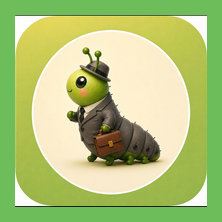
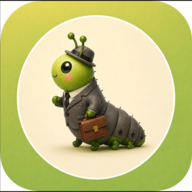
cv-sender: strategy default ahora + timezone por pais + formatLocalDate
- /api/cv-sender/send: default strategy cambia de 'optimo' a 'ahora' (60s)
  Los envios ya no esperan al siguiente dia habil (lunes).
- OfertaDetalleClient: anade strategy:'ahora' explicito
- lib/timezone.ts: nuevo modulo con PAIS_TIMEZONE (21 paises) + formatLocalDate
- /app/envios: usa formatLocalDate con timeZone Europe/Madrid en vez de UTC
- /api/salarios: fix title ILIKE solo (usa indice GIN trigram, sin description)
- iconos PWA maskable regenerados

diff --git a/lib/timezone.ts b/lib/timezone.ts
@@ -1,0 +1,66 @@
+/**
+ * lib/timezone.ts — Zonas horarias por país para BuscayCurra
+ *
+ * Cada país de la plataforma mapeado a su zona horaria IANA.
+ * Fallback: "Europe/Madrid" (UTC+1/+2)
+ */
+
+export const PAIS_TIMEZONE: Record<string, string> = {
+  ES: "Europe/Madrid",
+  DE: "Europe/Berlin",
+  FR: "Europe/Paris",
+  IT: "Europe/Rome",
+  PT: "Europe/Lisbon",
+  GB: "Europe/London",
+  IE: "Europe/Dublin",
+  NL: "Europe/Amsterdam",
+  BE: "Europe/Brussels",
+  AT: "Europe/Vienna",
+  CH: "Europe/Zurich",
+  SE: "Europe/Stockholm",
+  DK: "Europe/Copenhagen",
+  NO: "Europe/Oslo",
+  FI: "Europe/Helsinki",
+  PL: "Europe/Warsaw",
+  CZ: "Europe/Prague",
+  AU: "Australia/Sydney",
+  NZ: "Pacific/Auckland",
+  US: "America/New_York",
+  CA: "America/Toronto",
+};
+
+/**
+ * Formatea una fecha ISO en la zona horaria del país del usuario.
+ * @param isoString - Fecha en formato ISO 8601
+ * @param pais - Código de país ISO (ES, DE, FR...). Default: "ES"
+ * @param options - Opciones adicionales de Intl.DateTimeFormat
+ */
+export function formatLocalDate(
+  isoString: string | undefined | null,
+  pais: string = "ES",
+  options: Intl.DateTimeFormatOptions = {}
+): string {
+  if (!isoString) return "";
+  const tz = PAIS_TIMEZONE[pais] || "Europe/Madrid";
+  const locale = mapPaisToLocale(pais);
+  return new Date(isoString).toLocaleString(locale, {
+    day: "2-digit",
+    month: "short",
+    hour: "2-digit",
+    minute: "2-digit",
+    timeZone: tz,
+    ...options,
+  });
+}
+
+/** Mapea código de país a locale BCP 47 */
+function mapPaisToLocale(pais: string): string {
+  const map: Record<string, string> = {
+    ES: "es-ES", DE: "de-DE", FR: "fr-FR", IT: "it-IT", PT: "pt-PT",
+    GB: "en-GB", IE: "en-IE", NL: "nl-NL", BE: "nl-BE", AT: "de-AT",
+    CH: "de-CH", SE: "sv-SE", DK: "da-DK", NO: "nb-NO", FI: "fi-FI",
+    PL: "pl-PL", CZ: "cs-CZ", AU: "en-AU", NZ: "en-NZ",
+    US: "en-US", CA: "en-CA",
+  };
+  return map[pais] || "es-ES";
+}

diff --git a/app/api/salarios/route.ts b/app/api/salarios/route.ts
@@ -87,7 +87,10 @@ export async function GET(request: NextRequest) {
     const puestoClean = puesto.toLowerCase().trim();
     const kw = `%${puestoClean}%`;
 
-    // Estadísticas generales
+    // Evitar que queries lentas cuelguen la API
+    await pool.query(`SET LOCAL statement_timeout = '8s'`);
+
+    // Estadísticas generales — solo title (tiene índice GIN trigram, description no)
     const statsResult = await pool.query(
       `SELECT 
         COUNT(*) as total,
@@ -96,7 +99,7 @@ export async function GET(request: NextRequest) {
         MAX(CASE WHEN salary ~ '[0-9]+' THEN NULLIF(regexp_replace((regexp_match(salary, '([0-9][0-9.,]*[0-9])'))[1], '[,.]', '', 'g'), '')::numeric ELSE NULL END) as max_salary,
         COUNT(CASE WHEN salary ~ '[0-9]' THEN 1 END) as con_salario
        FROM "JobListing"
-       WHERE "isActive" = true AND (title ILIKE $1 OR description ILIKE $1)`,
+       WHERE "isActive" = true AND title ILIKE $1`,
       [kw]
     );
 
@@ -114,14 +117,14 @@ export async function GET(request: NextRequest) {
       };
     }
 
-    // Por provincia
+    // Por provincia — solo title (tiene índice GIN trigram)
     const provResult = await pool.query(
       `SELECT 
         COALESCE(NULLIF(province, ''), city) as province,
         COUNT(*) as count,
         AVG(CASE WHEN salary ~ '[0-9]+' THEN NULLIF(regexp_replace((regexp_match(salary, '([0-9][0-9.,]*[0-9])'))[1], '[,.]', '', 'g'), '')::numeric ELSE NULL END) as avg_salary
        FROM "JobListing"
-       WHERE "isActive" = true AND (title ILIKE $1 OR description ILIKE $1)
+       WHERE "isActive" = true AND title ILIKE $1
        GROUP BY COALESCE(NULLIF(province, ''), city)
        HAVING COUNT(*) >= 3
        ORDER BY count DESC
@@ -146,7 +149,7 @@ export async function GET(request: NextRequest) {
           COUNT(*) as count,
           AVG(CASE WHEN salary ~ '[0-9]+' THEN NULLIF(regexp_replace((regexp_match(salary, '([0-9][0-9.,]*[0-9])'))[1], '[,.]', '', 'g'), '')::numeric ELSE NULL END) as avg_salary
          FROM "JobListing"
-         WHERE "isActive" = true AND (title ILIKE $1 OR description ILIKE $1)
+         WHERE "isActive" = true AND title ILIKE $1
            AND (province ILIKE $2 OR city ILIKE $2)`,
         [kw, loc]
       );

diff --git a/app/app/envios/page.tsx b/app/app/envios/page.tsx
@@ -8,6 +8,7 @@ import { getSupabaseBrowser } from "@/lib/supabase-browser";
 import Link from "next/link";
 import UsageCounter from "@/components/UsageCounter";
 import { Mail, Eye, MessageCircle, Clock, X, Ban, FileText, Briefcase, MapPin, Phone, Send } from "lucide-react";
+import { formatLocalDate } from "@/lib/timezone";
 
 interface Envio {
   id: string;
@@ -191,11 +192,7 @@ export default function EnviosPage() {
                   {envio.job_title && <p className="flex items-center gap-1 text-xs text-slate-400 truncate"><Briefcase size={11} />{envio.job_title}</p>}
                   {envio.company_email && <p className="flex items-center gap-1 text-xs text-slate-500 truncate"><Mail size={11} />{envio.company_email}</p>}
                   <p className="text-xs text-slate-600 mt-0.5">
-                    {envio.sent_at
-                      ? new Date(envio.sent_at).toLocaleString("es-ES", { day: "2-digit", month: "short", hour: "2-digit", minute: "2-digit" })
-                      : envio.created_at
-                        ? new Date(envio.created_at).toLocaleString("es-ES", { day: "2-digit", month: "short", hour: "2-digit", minute: "2-digit" })
-                        : ""}
+                    {formatLocalDate(envio.sent_at || envio.created_at)}
                   </p>
                 </div>
                 <div className="flex flex-col items-end gap-1.5 shrink-0">
@@ -243,8 +240,7 @@ export default function EnviosPage() {
               <div><span className="text-slate-400">Email:</span> <span className="text-white">{detalle.company_email}</span></div>
               <div><span className="text-slate-400">Estado:</span> <span className="font-semibold" style={{ color: STATUS_COLOR[detalle.status] }}>{detalle.status}</span></div>
               <div><span className="text-slate-400">Fecha:</span> <span className="text-white">
-                {detalle.sent_at ? new Date(detalle.sent_at).toLocaleString("es-ES", { day: "2-digit", month: "long", hour: "2-digit", minute: "2-digit" })
-                  : new Date(detalle.created_at).toLocaleString("es-ES", { day: "2-digit", month: "long", hour: "2-digit", minute: "2-digit" })}
+                {formatLocalDate(detalle.sent_at || detalle.created_at, "ES", { month: "long" })}
               </span></div>
             </div>
 

diff --git a/app/api/cv-sender/send/route.ts b/app/api/cv-sender/send/route.ts
@@ -203,8 +203,10 @@ export async function POST(request: NextRequest) {
     }
 
     // ── Calcular scheduledFor según estrategia ────────────────────────────
+    // Default: "ahora" (1 min) en vez de "optimo". Los envíos no deben esperar a
+    // la siguiente hora hábil si el usuario acaba de hacer clic en "Enviar CV".
     let scheduledForMs: number | undefined;
-    if (strategy === "ahora") {
+    if (!strategy || strategy === "ahora") {
       scheduledForMs = Date.now() + 60_000; // 1 min desde ahora
     } else if (strategy === "personalizada" && scheduledFor) {
       scheduledForMs = new Date(scheduledFor).getTime();
@@ -215,7 +217,7 @@ export async function POST(request: NextRequest) {
         );
       }
     }
-    // strategy="optimo" o no especificada → scheduledForMs = undefined → el scheduler decide
+    // strategy="optimo" → scheduledForMs = undefined → el scheduler decide
 
     // ── Programar el envío ────────────────────────────────────────────────
     const resultado = await scheduleCV(

diff --git a/app/app/ofertas/[id]/OfertaDetalleClient.tsx b/app/app/ofertas/[id]/OfertaDetalleClient.tsx
@@ -167,6 +167,7 @@ export default function OfertaDetalleClient({ oferta: ofertaInicial }: { oferta:
           companyEmail: email,
           companyUrl: oferta.url,
           jobTitle: oferta.titulo,
+          strategy: "ahora",
         }),
       });
       if (res.ok) {